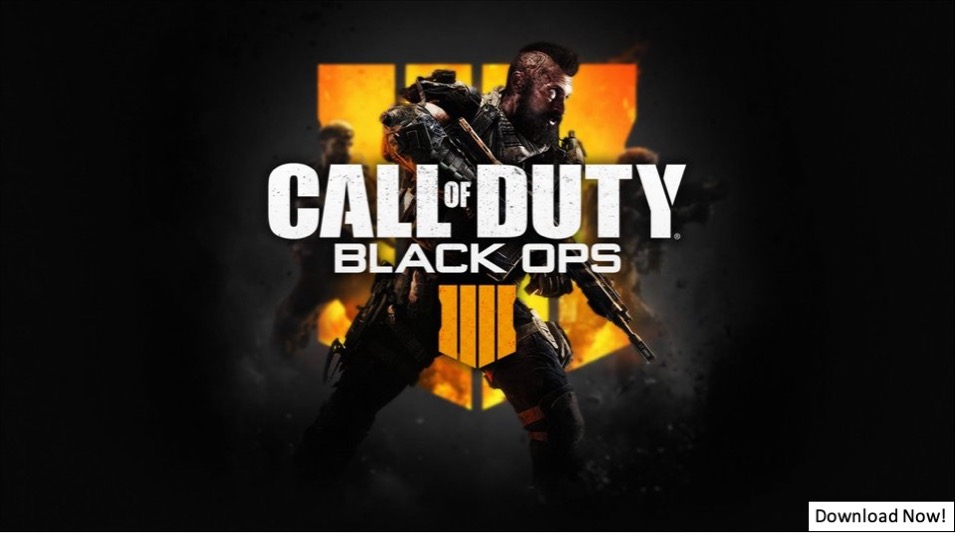
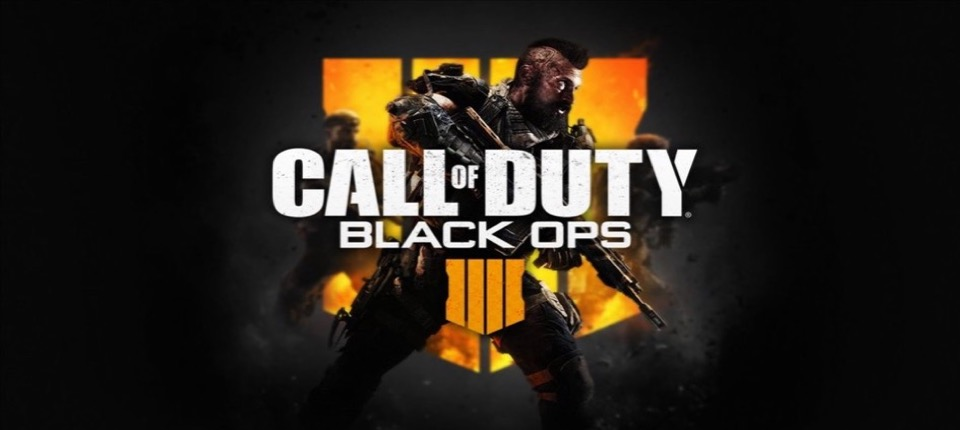
added image, headings and text to the homepage and created css welcome animation

Changed region(s): [[0.25, 0.0907, 0.75, 0.9372], [0.0, 0.0, 1.0, 1.0]]

diff --git a/css/styles.css b/css/styles.css
@@ -11,7 +11,7 @@ nav.navbar {
   overflow: hidden;
   background-color: #3c3d3d;
 }
-/*commenting */
+
 nav.navbar li {float: left;}
 
 nav.navbar li a {
@@ -28,9 +28,12 @@ nav.navbar li a:hover:not(.active) {
 
 ul.navbar li.right {float: right;}
 
-/*nav.navbar li a.active {background-color: #3c3d3d;}*/
 .active {
   background-color: #494949;
+}
+
+.logo {
+  background-color: black;
 }
 
 /* change the nav bar layout once the screen gets smallere then 600px*/
@@ -43,6 +46,7 @@ ul.navbar li.right {float: right;}
   }
 }
 
+
 body {
   margin: 0;
   font-family: Avenir, Helveltica, Arial, san-serif;
@@ -51,14 +55,12 @@ body {
   color: #fff;
 }
 
+/*
 div > * {
   padding: 1em;
   box-sizing: border-box;
 }
-
-header h1 {
-  margin: 0;
-}
+*/
 
 header {
   background: #3c3d3d;
@@ -67,7 +69,6 @@ header {
   /*grid-area: header;*/
 }
 
-/*grid testing */
 .grid {
   display: grid;
   grid-template-columns: 1fr 1fr;
@@ -82,8 +83,54 @@ main {
   grid-area: content;
 }
 
+/*css animation welcome banner*/
+div.animation {
+  width: 100px;
+  height: 35px;
+  background-color: red;
+  position: relative;
+  animation-name: welcome;
+  animation-duration: 15s;
+  margin: auto;
+}
+
+@keyframes welcome {
+  0% {background-color: red; left:0px; top:0px;}
+  25% {background-color: yellow; left:1300px; top:0px;}
+  50% {background-color: green; left:0px; top:0px;}
+  75% {background-color: blue; left:1300px; top:0px;}
+  100% {background-color: orange; left:0px; top:0px;}
+}
+
+p.welcome {
+  text-align: center;
+  font-size: 20px;
+}
+
+h1 {
+  text-align: center;
+  font-size: 40px;
+  padding: 0 5px;
+}
+
 h2 {
   text-align: center;
+  font-size: 20px;
+  padding: 0 5px;
+  font-style: none;
+}
+
+h3 {
+  text-align: center;
+  font-size: 12px;
+  padding: 0 5px;
+  font-style: none;
+}
+
+p {
+  text-align: center;
+  padding: 0 5px;
+  font-size: 12px;
 }
 
 img {
@@ -92,48 +139,6 @@ img {
   display: block;
   margin-left: auto;
   margin-right: auto;
-}
-
-.img-box {
-  float: left;
-  width: 33%;
-  padding: 5px;
-}
-
-.flexbox::after {
-  content: "";
-  clear: both;
-  display: table;
-}
-
-ul {
-  list-style-type: none;
-  display: table;
-  width: 90%;
-  border-spacing: 0 10px;
-}
-
-li{
-  display: table-row;
-}
-
-li strong, li .txt, li .langs {
-  display: table-cell;
-  vertical-align: middle;
-}
-
-li .txt {
-  width: 60%;
-  padding-right: 10px;
-}
-
-li .txt {
-  width: 60%;
-  padding-right: 10px;
-}
-
-li:nth-child(even) {
-  /*background: #eee;*/
 }
 
 footer {
@@ -150,7 +155,7 @@ footer {
 
   .grid {
     grid-template-columns: 1fr 1fr 1fr;
-    grid-template-rows:200vh 20vh;
+    grid-template-rows:100vh 20vh;
     grid-template-areas:
       "content content content"
       "footer  footer  footer";

diff --git a/index.html b/index.html
@@ -9,43 +9,53 @@
 </head>
 
 <body>
-
-  <header>
-    <h1>GAME STOP</h1>
-  </header>
-
+<head>
 <!-- responsive nav bar -->
   <nav id="navbar "class="navbar">
+    <li><a class="logo">GAME stop</a></li>
     <li><a href="#home" class="active">Home</a></li>
     <li><a href="games.html">Games</a></li>
     <li><a href="news.html">News</a></li>
     <li><a href="contact.html">Contact</a></li>
   </nav>
+</head>
 
   <div class="grid">
     <main>
-      <h2>Introducing the best-selling action game… Black Ops 4</h2>
-      <div>
+      <!--<h2>Introducing the best-selling action game… Black Ops 4</h2>-->
+      <div class="heading">
+        <h1>GAME stop</h1>
+        <p id="welcome">Welcome to GAME stop</p>
+      </div>
+
+      <div class="animation">
+        <p class="welcome">Welcome</p>
+      </div>
+
+
+      <div class="home_img">
         <a href="https://www.callofduty.com/uk/en/blackops4/buy">
-        <img src="images/BlackOps4.jpg" alt="Black Ops 4" width="1400" height="200">
+        <img src="images/black-opps.jpg" alt="Black Ops 4" width="1400" height="160">
         </a>
       </div>
 
-      <p id="hello">Click me to say hello</p>
+      <h3>About Us</a>
+      <p>Game stop is a website that brings the gaming community together.
+        Keeping the gaming community regularly updated with the latest game releases
+        as well as information about the best-selling games.</p>
+      <p>We also have a new feed where users can view news and rumours about the
+        latest developments.</p>
+      <p>Also, why not contact us and provide us with feedback by filling out
+        our user feedback form. We are always looking for your views and improvements.</p>
 
-      <div class="flexbox">
-        <div class="img-box">
-          <img src="images/FIFA19.jpg" alt="FIFA 19" style="width:100%">
-          <img src="images/rdr2.jpg" alt="Red Dead Redemption" style="width:100%">
-          <img src="images/XboxOneX.jpg" alt="X Box One X" style="width:100%">
-        </div>
-      </div>
 
     </main>
 
     <footer>
-      <h3>For more information contact us:</h3>
-      <p>Email: gamestop@gmail.co.</p>
+      <h3>GAME Stop</h3>
+      <p>Email: gamestop@gmail.com </p>
+      <p>Tel: 07545372685 </p>
+      <img src="images/social_media.jpg" alt="Social Media" width="100" height="100">
     </footer>
   </div>
 

diff --git a/games.html b/games.html
@@ -9,25 +9,40 @@
 </head>
 
 <body>
-
-  <header>
-    <h1>GAME STOP</h1>
-
-
-
-
-  </header>
-
+<head>
 <!-- responsive nav bar -->
   <nav id="navbar "class="navbar">
+    <li><a class="logo">GAME stop</a></li>
     <li><a href="index.html">Home</a></li>
     <li><a href="games.html" class="active">Games</a></li>
     <li><a href="news.html">News</a></li>
     <li><a href="contact.html">Contact</a></li>
   </nav>
+</head>
 
   <div class="grid">
     <main>
+
+      <div class="brand">
+        <h1>NEWS</h1>
+        <p>Keep up to date with the latest games and releases</p>
+      </div>
+
+      <div style="max-width:500px">
+        <img class="mySlides" src="images/BlackOps4.jpg" style="width:100%">
+        <img class="mySlides" src="images/rdr2.jpg" style="width:100%">
+        <img class="mySlides" src="images/FIFA19.jpg" style="width:100%">
+
+        <button onclick="plusDivs(-1)">&#10094;</button>
+        <button onclick="plusDivs(1)">&#10095;</button>
+
+      </div>
+
+
+
+
+
+
 
       <!-- json ajax search form placeholder-->
       <form id="searchForm">
@@ -41,8 +56,10 @@
     </main>
 
     <footer>
-      <h3>For more information contact us:</h3>
-      <p>Email: gamestop@gmail.co.</p>
+      <h3>GAME Stop</h3>
+      <p>Email: gamestop@gmail.com </p>
+      <p>Tel: 07545372685 </p>
+      <img src="images/social_media.jpg" alt="Social Media" width="100" height="100">
     </footer>
   </div>
 

diff --git a/js/scripts.js b/js/scripts.js
@@ -1,13 +1,15 @@
 //display hello message when the website loads up
-console.log("hello");
+console.log("welcome");
 
 //function to display a pop up message when clicking onto the BlackOps4 Download images
 function greeting() {
-  alert("Hello");
-  hello.textContent = "Goodbye";
+  alert("Welcome");
+  welcome.textContent = "Your daily feed for the latest games";
 }
 
-hello.addEventListener("click", greeting);
+welcome.addEventListener("click", greeting);
+
+"use strict";
 
 //search bar
 (function(){
@@ -92,3 +94,21 @@ hello.addEventListener("click", greeting);
     ev.preventDefault();
   }, false);
 }());
+
+
+
+//slide show
+var myIndex = 0;
+carousel();
+
+function carousel() {
+  var i;
+  var x = document.getElementsByClassName("mySlides");
+  for (i = 0; i < x.length; i++) {
+    x[i].style.display = "none";
+  }
+  myIndex++;
+  if (myIndex > x.lentgh) {myIndex = 1}
+  x[myIndex-1].style.display = "block";
+  setTimeout(carousel, 2000);
+}

diff --git a/readme.md b/readme.md
@@ -4,4 +4,13 @@ This is very basic boilerplate code for you to get started with.
 
 To create a responsive nav bar that changes shape with the screen size, I have used W3Schools responsive Topnav guide to help me create and understand this. https://www.w3schools.com/css/css_navbar.asp. I have also changed a few elements and have adapted the code to my own work to show my own understanding.
 
+For the main layout I have used CSS grid with header, content section and footer. Then when creating pages I will be inserting flex boxes into the content section.
+
+On the homepage I have created a css animation that displays a welcome message. To help me do this I used w3schools guide https://www.w3schools.com/css/tryit.asp?filename=trycss3_animation3.
+
+
+
+
+
+
 I have crated a wiki search facility within the games.html page allowing users to find out more about games. I used lab 7 json-ajax to help me do this.
